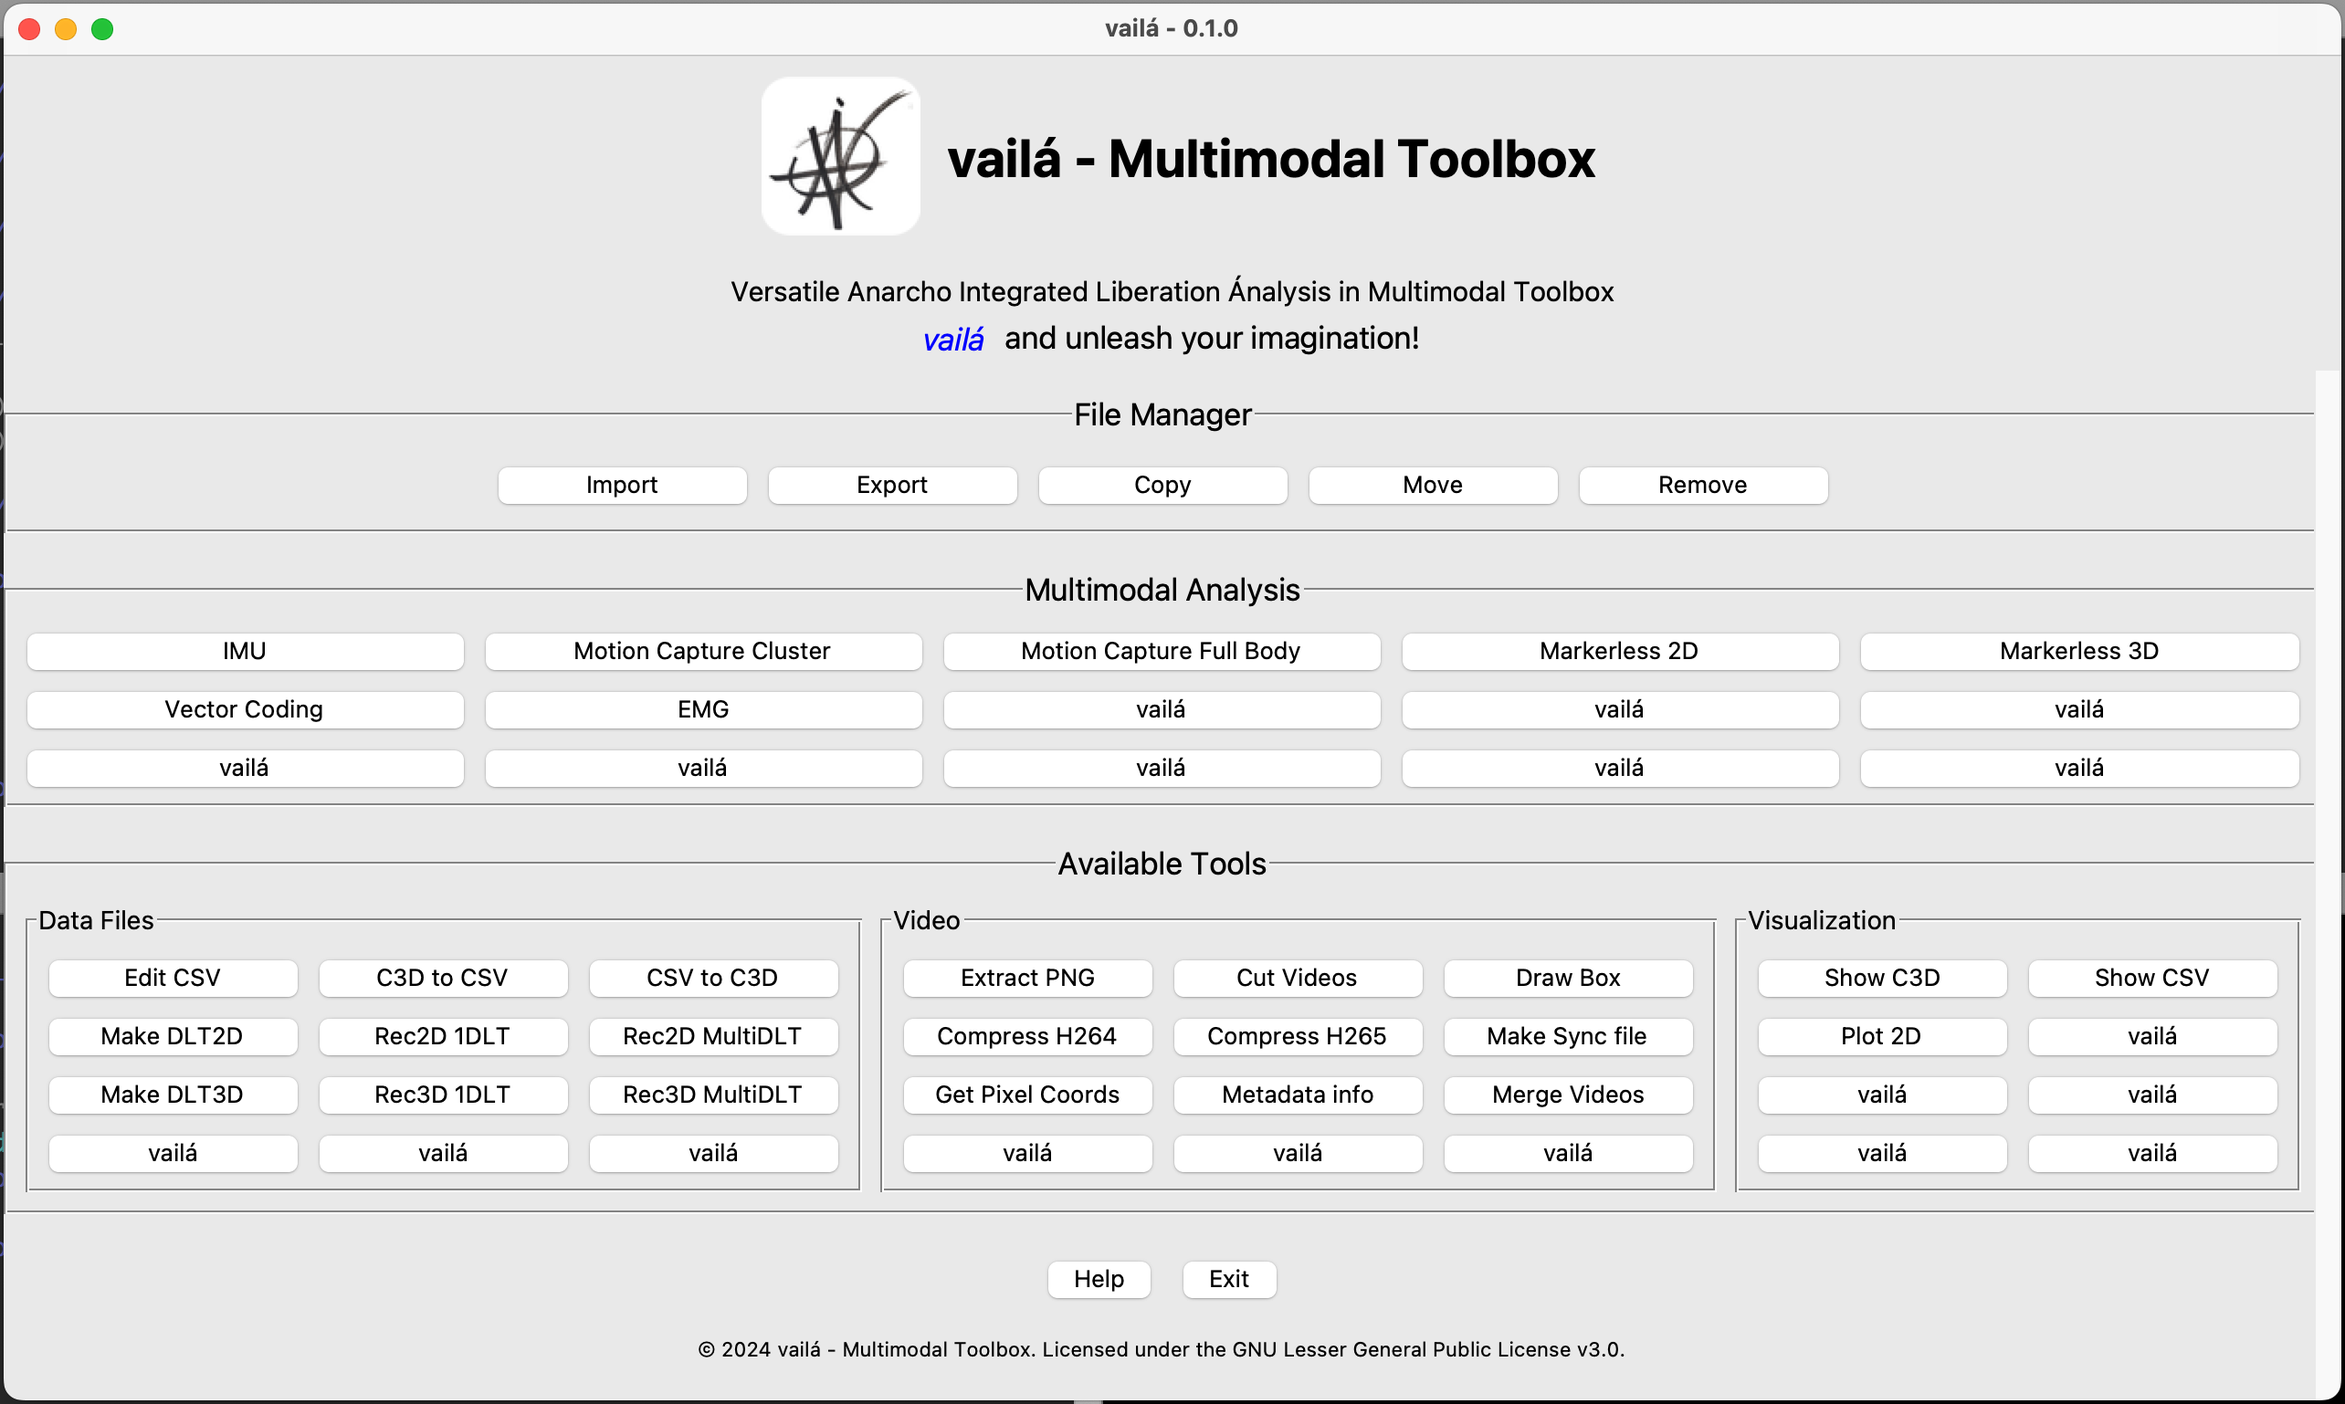
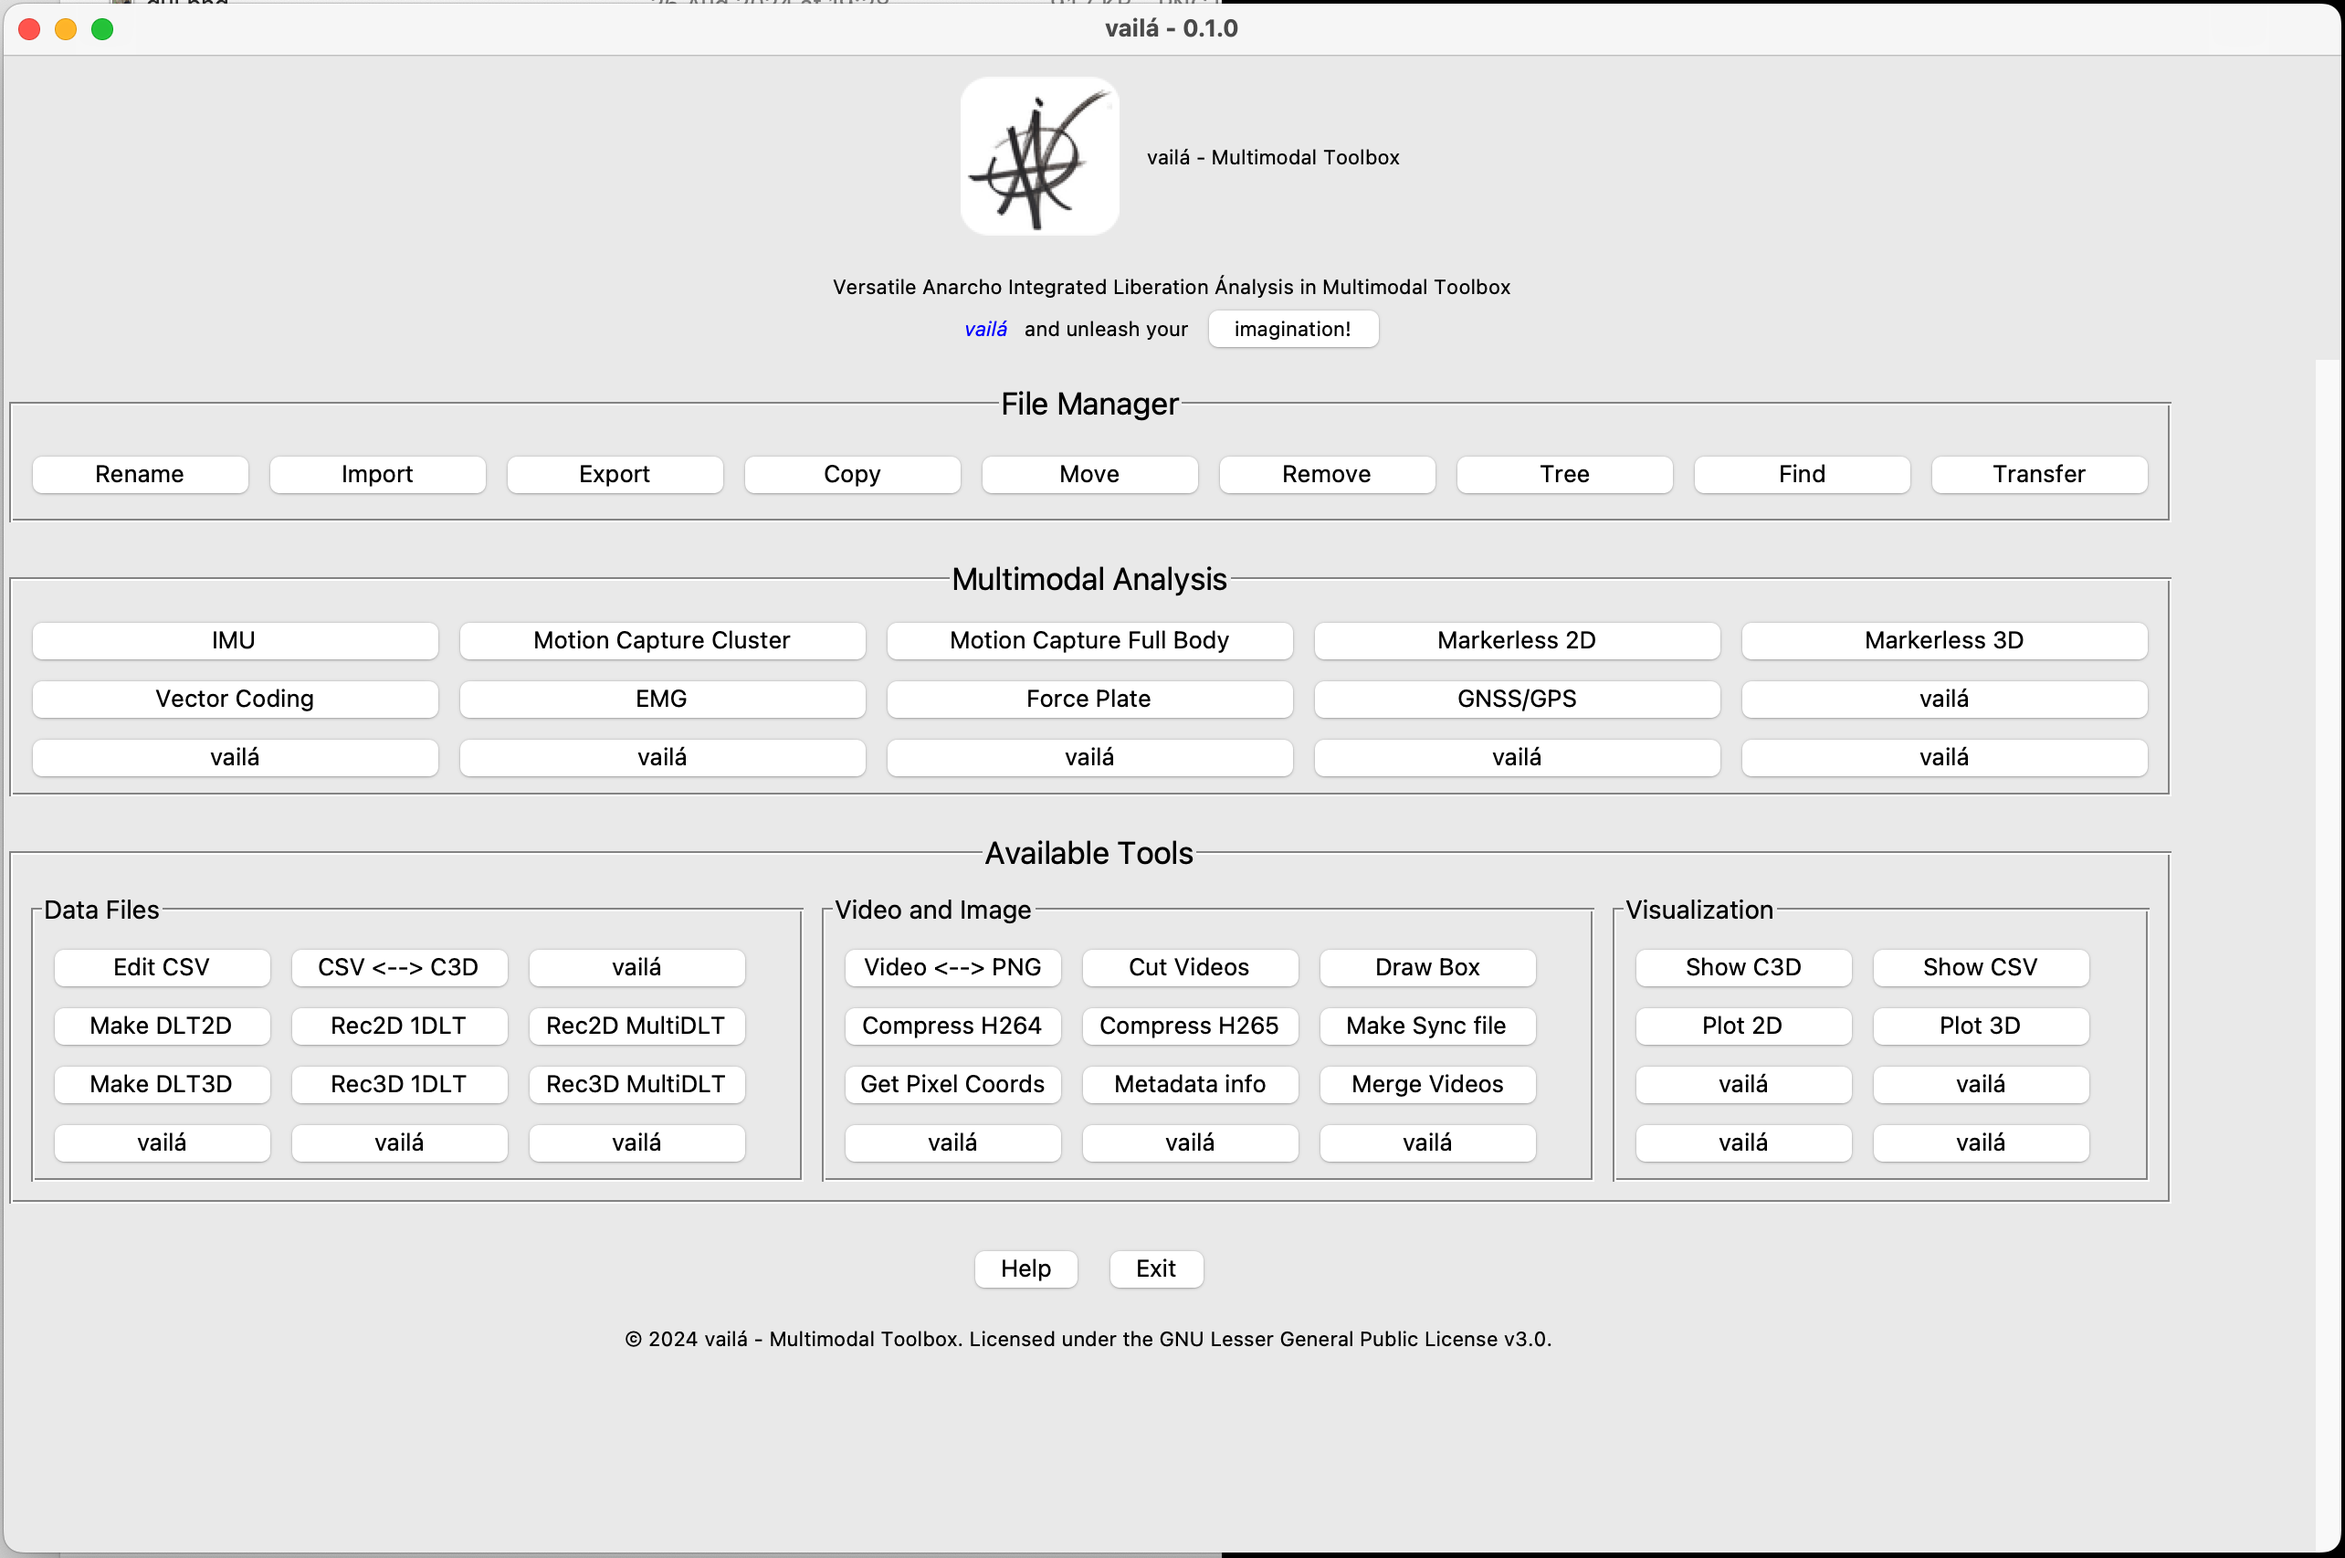
Rec3d (#77)
* update dlt3d date

* update yaml header and create install sh and bat

* remove dir create base import data export

* update path json windows terminal txt

* update scale GUI vaila

* update scale GUI vaila

* improve find

* improve rearrange Dvideo to vaila and add button in getpixel filemager improve

* fix csv no exist

* fix duplicate vaila.py and update mediapipe to 0.10.15

* update manifest

* fix convert c3d to csv fix gui in editcsv

* add terminal launch for imagination and xonsh

* xonsh and install update

* update install vaila - now remove previus env and reinstall vaila

* update README.md

* update readme and start gui figure

---------

diff --git a/README.md b/README.md
@@ -26,7 +26,9 @@
 
 ## Introduction
 
-The analysis of human movement, such as trunk and pelvis coordination during sit-to-stand movements, is crucial for understanding the biomechanics of individuals with disabilities, particularly for those with conditions such as cerebral palsy. Traditional motion capture systems, while highly accurate, often require extensive setup and are limited in their ability to capture natural movements in various environments. Recent advancements in motion capture technologies, including inertial measurement units (IMUs) and markerless video-based systems, provide new opportunities for comprehensive movement analysis.
+The analysis of human movement is fundamental in both health and sports biomechanics, providing valuable insights into various aspects of physical performance, rehabilitation, and injury prevention. Understanding joint coordination, such as that between the trunk and pelvis, is essential for assessing movement patterns in both healthy individuals and those with disabilities. Traditional motion capture systems, despite their high accuracy, often involve complex setups and are restricted in their ability to capture natural, unrestricted movements across diverse environments. Recent advancements in motion capture technologies, including inertial measurement units (IMUs) and markerless video-based systems, offer new opportunities for more comprehensive and flexible movement analysis, allowing for more accurate assessments in real-world settings.
+
+However, many people struggle to fully understand the complexity behind pre-built software that often functions as a "black box," limiting the user's control and comprehension. Additionally, these software solutions are proprietary, meaning users do not own them and cannot make necessary modifications or adaptations to suit their specific needs. With **vailá**, this is not the case. You have the freedom to use your imagination, customize your analysis, and create your own tools with the help of new "friends" in the community. Here, the software is in your hands—you are encouraged to build new buttons, write new code, and shape the software to meet your unique requirements, fostering a truly open and collaborative environment.
 
 This study presents the development of the vailá - Versatile Anarcho Integrated Liberation Ánalysis in Multimodal Toolbox. This toolbox/toolkit designed to enhance the analysis of human movement by leveraging data from multiple biomechanical systems. The toolbox incorporates data from:
 
